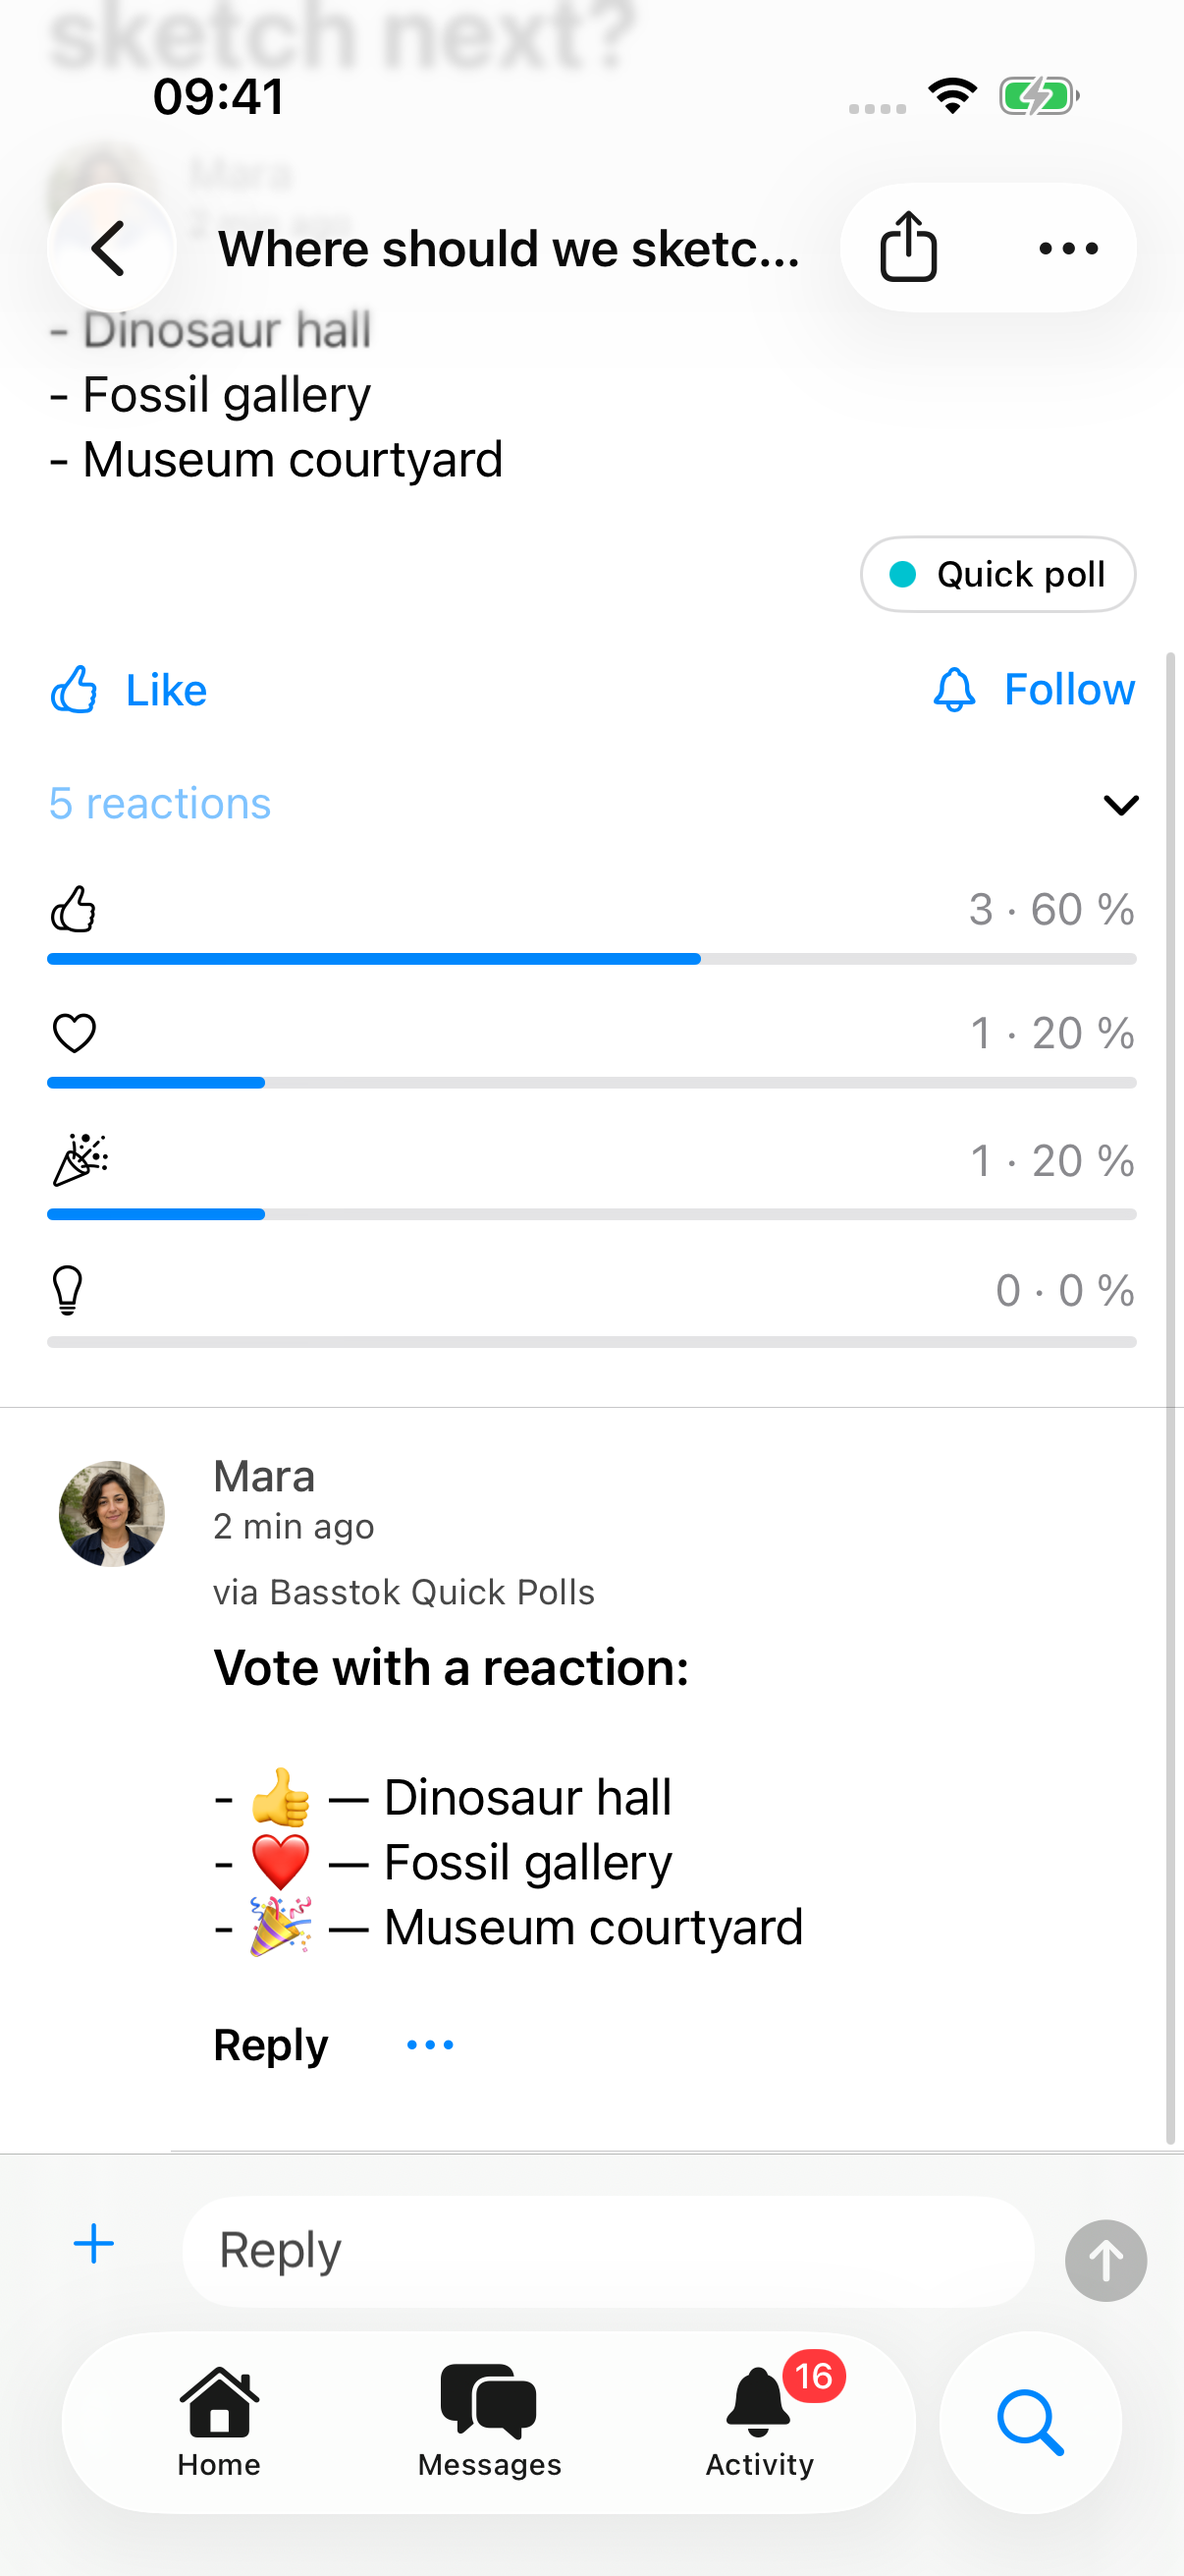
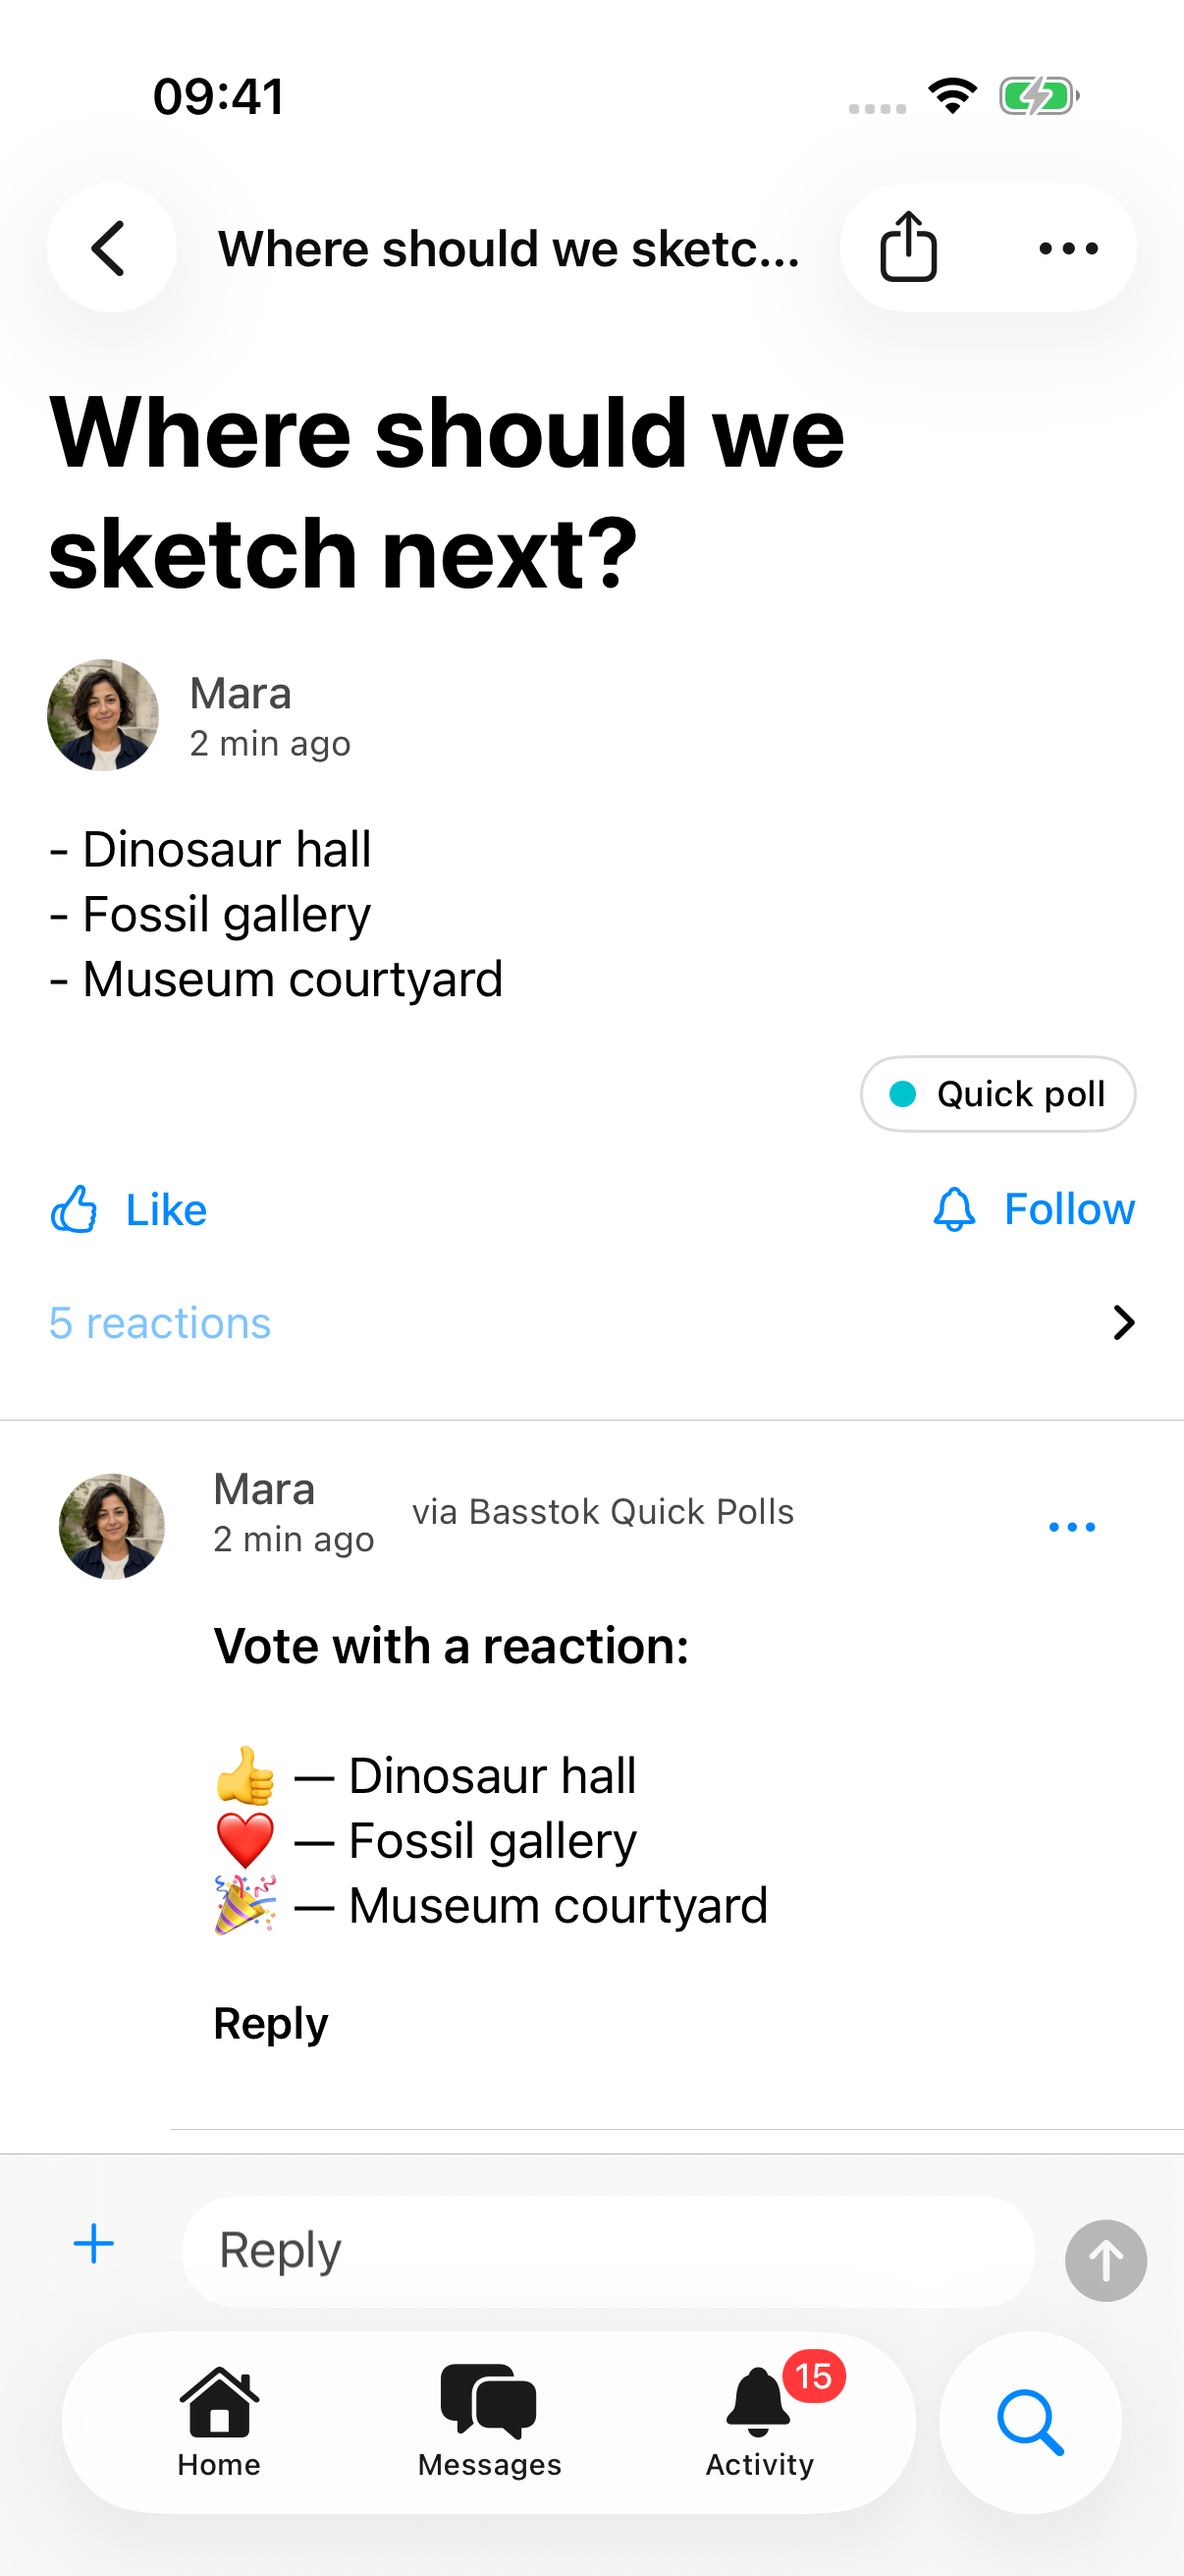
Refine Agent setup and poll presentation

diff --git a/agents/quick-polls.ts b/agents/quick-polls.ts
@@ -20,10 +20,10 @@ export async function publishPollGuide(
   const choices = parsePollChoices(content.body);
   if (choices === undefined) return;
   const lines = choices.map((choice, index) =>
-    `- ${reactions[index]} — ${escapeMarkdown(choice)}`,
+    `${reactions[index]} — ${escapeMarkdown(choice)}`,
   );
   await api.createComment(content.id, guideId, {
-    body: "**Vote with a reaction:**\n\n" + lines.join("\n"),
+    body: "**Vote with a reaction:**\n\n" + lines.join("  \n"),
   });
 }
 

diff --git a/tests/agents.test.ts b/tests/agents.test.ts
@@ -166,7 +166,7 @@ test("Quick polls publish one deterministic reaction guide and then freeze it", 
   assert.match(writes[0]?.url ?? "", uuidAtEnd);
   assert.deepEqual(writes[0]?.body, {
     body: "**Vote with a reaction:**\n\n" +
-      "- 👍 — Garden\n- ❤ — Workshop\n- 🎉 — Library",
+      "👍 — Garden  \n❤ — Workshop  \n🎉 — Library",
   });
 });
 

diff --git a/docs/official-agents.md b/docs/official-agents.md
@@ -10,11 +10,11 @@ creates or reuses their direct Chat and sends one welcome Message. It skips
 the responsible Member and Members created by Agents.
 
 Write your welcome message before installing. New Members receive it from
-you, with Welcome guide identified below the Message.
+you, with Welcome guide identified alongside the Message.
 
 <div class="agent-photos">
-  <img src="./images/welcome-guide-message.png" alt="A new Member receives a welcome message" width="240" height="522" loading="lazy">
-  <img src="./images/welcome-guide-permissions.png" alt="Review Welcome guide’s access on iPhone" width="240" height="522" loading="lazy">
+  <img src="./images/welcome-guide-permissions.png" alt="Write the welcome message and install Welcome guide on iPhone" width="240" height="522" loading="lazy">
+  <img src="./images/welcome-guide-message.png" alt="A new Member receives the configured welcome message" width="240" height="522" loading="lazy">
 </div>
 
 ## Help desk
@@ -78,6 +78,21 @@ usable if an Agent is stopped or unavailable.
 
 Client developers can use the [Agent management endpoints](https://github.com/basstok/api/blob/main/reference.md#manage-official-agents).
 These require a Manager's session, not an Agent token.
+
+## What you choose
+
+Welcome guide has a **Welcome message** field on iPhone, Android, and the web.
+Enter your greeting before installing. It supports Markdown and must contain
+text, up to 2,048 UTF-8 bytes. To replace an installed greeting, uninstall and
+install again with the new message. Previously sent Messages stay unchanged.
+
+The other four Agents use the Labels described above; their thresholds and
+actions are fixed. There are no hidden setup fields.
+
+These are screens for the official catalog. If you write a third-party Agent,
+your program owns its inputs and any setup screen; Basstok does not generate
+forms from arbitrary Agent parameters. You can still build a client for the
+published official-Agent management contract.
 
 ## Run your own copy
 

diff --git a/README.md b/README.md
@@ -14,9 +14,12 @@ Give new Members a personal welcome. Write your message once; Welcome guide
 sends it from you when someone joins, with the Agent clearly identified.
 
 <p>
-  <img src="docs/images/welcome-guide-message.png" alt="A new Member receives Mara’s welcome, sent by Welcome guide" width="240" height="522">
   <img src="docs/images/welcome-guide-permissions.png" alt="Write a welcome message and review access before installing Welcome guide" width="240" height="522">
+  <img src="docs/images/welcome-guide-message.png" alt="A new Member receives Mara’s welcome, sent by Welcome guide" width="240" height="522">
 </p>
+
+Write your greeting → install → new Members receive it. The message field is
+available on iPhone, Android, and the web.
 
 [Read the code →](agents/welcome-guide.ts)
 
@@ -106,6 +109,11 @@ await serveAgent({
 [Get started](docs/getting-started.md) to connect and run one, or
 [write your own Agent](docs/writing-an-agent.md). Use TypeScript or any language
 that can make ordinary HTTP requests.
+
+Running your own copy? Change the welcome text in
+[Welcome guide](agents/welcome-guide.ts), or read your own program’s settings.
+The installation screens shown above belong to Basstok’s official Agents;
+third-party parameters do not automatically create screens in Basstok.
 
 The [Agent guide](https://agents.basstok.com/) covers connection and hosting.
 The shared [Basstok REST API](https://github.com/basstok/api) has its own

diff --git a/docs/index.md b/docs/index.md
@@ -14,8 +14,8 @@ Write your welcome message once. Welcome guide sends it when a new Member
 joins, with you as the sender and the Agent clearly identified.
 
 <div class="agent-photos">
-  <img src="./images/welcome-guide-message.png" alt="A new Member receives Mara’s welcome, sent by Welcome guide" width="240" height="522">
   <img src="./images/welcome-guide-permissions.png" alt="Write a welcome message and review access before installing Welcome guide" width="240" height="522">
+  <img src="./images/welcome-guide-message.png" alt="A new Member receives Mara’s welcome, sent by Welcome guide" width="240" height="522">
 </div>
 
 [See Help desk, Quick polls, Discussion closeout, and Community favorites →](official-agents.md)
